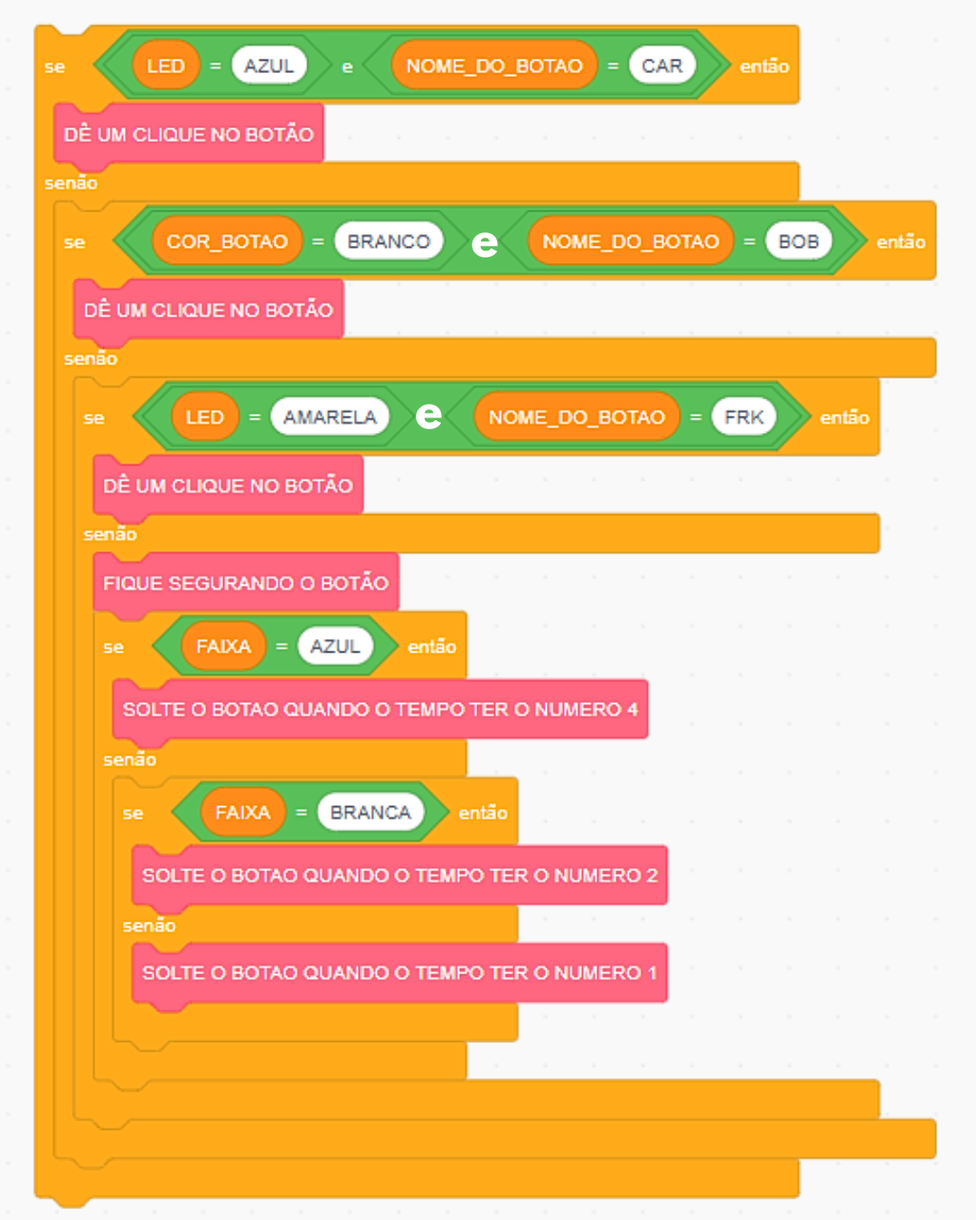
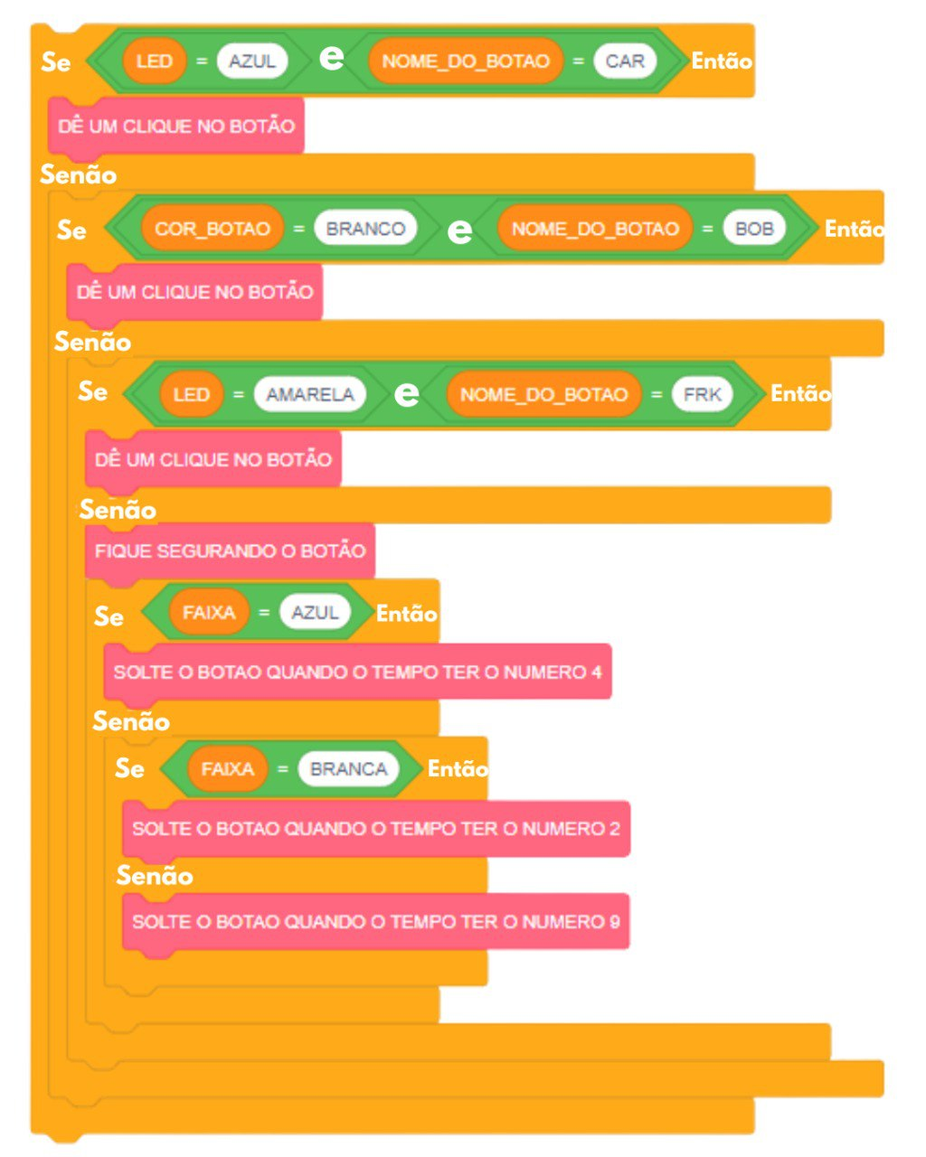
9⃣  default is nine

diff --git a/assets/index-DwWCXXcm.js b/assets/index-DwWCXXcm.js
@@ -96,7 +96,7 @@ Error generating stack: `+e.message+`
  *
  * This source code is licensed under the ISC license.
  * See the LICENSE file in the root directory of this source tree.
- */const nh=[["path",{d:"M18 6 6 18",key:"1bl5f8"}],["path",{d:"m6 6 12 12",key:"d8bk6v"}]],ff=_a("x",nh);function Kt({children:E,className:H=""}){return m.jsx("div",{className:`bg-card text-card-foreground rounded-lg border shadow-sm ${H}`,children:E})}function He({children:E,variant:H="default",size:j="default",className:v="",...z}){const Q="inline-flex items-center justify-center rounded-md font-medium transition-colors focus-visible:outline-none focus-visible:ring-2 focus-visible:ring-ring disabled:pointer-events-none disabled:opacity-50",K={default:"bg-primary text-primary-foreground hover:bg-primary/90",outline:"border border-input bg-background hover:bg-accent hover:text-accent-foreground",destructive:"bg-destructive text-destructive-foreground hover:bg-destructive/90"},ul={sm:"h-9 px-3 text-sm",default:"h-10 px-4 py-2",lg:"h-11 px-8 text-lg"},D=`${Q} ${K[H]} ${ul[j]} ${v}`;return m.jsx("button",{className:D,...z,children:E})}const ch="/keepTalkingAndNoKidExplodes/assets/cut-Dmt0vqtP.mp3";function ih({onDefused:E,onExplode:H,serialNumber:j,isDefused:v}){const[z]=al.useState(()=>{const R=["red","blue","yellow","black","white"],F=3+Math.floor(Math.random()*4);return Array.from({length:F},()=>R[Math.floor(Math.random()*R.length)])}),[Q]=al.useState(()=>{const R=new Audio(ch);return R.volume=.2,R}),K=R=>z.filter(F=>F===R).length,ul=R=>z.lastIndexOf(R),D=()=>{const R=parseInt(j.slice(-1));return!isNaN(R)&&R%2!==0},O=(()=>{const R=z.length,F=K("red"),bl=K("blue"),Tl=K("yellow"),El=K("black"),vl=K("white"),cl=z[R-1],nl=D();return R===3?F===0?1:cl==="white"?R-1:bl>1?ul("blue"):R-1:R===4?F>1&&nl?ul("red"):cl==="yellow"&&F===0||bl===1?0:Tl>1?R-1:1:R===5?cl==="black"&&nl?3:F===1&&Tl>1?0:El===0?1:0:R===6?Tl===0&&nl?2:Tl===1&&vl>1?3:F===0?R-1:3:-1})(),P=R=>{v||(Q.play(),R===O?E():H())};return m.jsxs(Kt,{className:"p-6 bg-slate-300",children:[m.jsx("h2",{className:"text-xl font-bold mb-4 text-center",children:"MÓDULO DE FIOS"}),m.jsxs("div",{className:"flex flex-col items-center space-y-2",children:[m.jsx("div",{className:"w-full h-8 bg-gray-700 rounded-t-lg"}),z.map((R,F)=>m.jsxs("div",{className:"flex items-center w-full",children:[m.jsx("div",{className:"w-8 h-8 bg-gray-700 rounded-l-lg"}),m.jsx("div",{className:`flex-grow h-2 transition-all ${v?"opacity-50 cursor-not-allowed":"hover:h-3 cursor-pointer"}`,style:{backgroundColor:R},onClick:()=>P(F)}),m.jsx("div",{className:"w-8 h-8 bg-gray-700 rounded-r-lg flex items-center justify-center",children:m.jsx("span",{className:"text-white text-xs",children:F+1})})]},F)),m.jsx("div",{className:"w-full h-8 bg-gray-700 rounded-b-lg"})]}),m.jsxs("div",{className:"mt-4 text-xs text-muted-foreground opacity-70",children:[m.jsxs("p",{children:["Serial: ",j]}),m.jsxs("p",{children:["Fios: ",z.join(", ")]})]})]})}const fh="/keepTalkingAndNoKidExplodes/assets/button_click-C3zWzbpL.mp3";function sh({onDefused:E,onExplode:H,isDefused:j,timeLeft:v}){const[z]=al.useState(()=>{const vl=["blue","red","yellow","white","green"],cl=["CAR","FRK","SIG","NSA","BOB","MSA","TRN"],nl=["blue","red","yellow","white","black","green"],Ul=["blue","red","yellow","white","black","green"],w=["Detonate","Abort","Hold","Press","Push","Button"];return{lightColor:vl[Math.floor(Math.random()*vl.length)],label:cl[Math.floor(Math.random()*cl.length)],stripColor:nl[Math.floor(Math.random()*nl.length)],buttonColor:Ul[Math.floor(Math.random()*Ul.length)],buttonText:w[Math.floor(Math.random()*w.length)]}}),[Q,K]=al.useState("idle"),[ul,D]=al.useState(""),[T]=al.useState(()=>{const vl=new Audio(fh);return vl.volume=.1,vl}),O=al.useRef(null);al.useEffect(()=>{const vl=Math.floor(v/60),cl=v%60;D(`${vl.toString().padStart(2,"0")}${cl.toString().padStart(2,"0")}`)},[v]),al.useEffect(()=>()=>{O.current&&clearTimeout(O.current)},[]);const P=()=>{const vl=z.lightColor==="blue"&&z.label==="CAR",cl=z.buttonColor==="white"&&z.label==="BOB",nl=z.lightColor==="yellow"&&z.label==="FRK";return vl||cl||nl},R=()=>{switch(z.stripColor){case"blue":return"4";case"white":return"2";default:return"9"}},F=()=>{j||(T.play(),K("pressed"),P()&&(O.current=setTimeout(()=>{console.log("[DEBUG] Botão mantido pressionado quando deveria ser solto → EXPLODE"),H()},1e3)))},bl=()=>{if(!(j||Q!=="pressed")){if(O.current&&clearTimeout(O.current),P())console.log("[DEBUG] Immediate Release → DEFUSED"),E();else{const vl=R(),cl=ul.includes(vl);console.log("[DEBUG] Botão solto. Timer:",ul,"→ precisa conter:",vl,"→",cl),cl?E():H()}K("idle")}},Tl=()=>["blue","red","green","black"].includes(z.buttonColor)?"white":"black",El=()=>j?"opacity-50 cursor-not-allowed":Q==="pressed"?"animate-pulse scale-105 border-orange-500":"hover:opacity-90 hover:scale-105 cursor-pointer active:scale-95 border-gray-300";return m.jsxs(Kt,{className:"p-6 bg-slate-300",children:[m.jsx("h2",{className:"text-xl font-bold mb-4 text-center",children:"MÓDULO DE BOTÃO"}),m.jsxs("div",{className:"flex flex-col items-center space-y-4",children:[m.jsxs("div",{className:"flex items-center space-x-2 mb-2",children:[m.jsx("div",{className:"w-8 h-8 rounded-full shadow-md",style:{backgroundColor:z.lightColor}}),m.jsxs("span",{className:"font-mono text-lg font-semibold bg-slate-300 px-2 py-1 rounded",children:["LED | NOME DO BOTÃO: ",z.label]})]}),m.jsx("button",{className:`w-32 h-32 rounded-full border-4 flex items-center justify-center font-bold text-lg shadow-lg transition-all ${El()}`,style:{backgroundColor:z.buttonColor,color:Tl()},onMouseDown:F,onMouseUp:bl,onTouchStart:F,onTouchEnd:bl,disabled:j,children:Q==="pressed"?"...":z.buttonText}),m.jsxs("div",{className:"w-full flex items-center justify-center mt-2",children:[m.jsx("div",{children:m.jsx("p",{className:"text-xs text-muted-foreground",children:"Faixa de luz: "})}),m.jsx("div",{className:"w-4/5 h-4 rounded-full shadow-inner",style:{backgroundColor:z.stripColor}})]})]})]})}function oh({timeLeft:E}){const H=Math.floor(E/60),j=E%60;return m.jsx("div",{className:"text-center mb-6",children:m.jsxs("div",{className:`text-6xl font-mono font-bold ${E<=60?"text-red-500 animate-pulse":"text-foreground"}`,children:[H.toString().padStart(2,"0"),":",j.toString().padStart(2,"0")]})})}function rh({onClose:E}){return m.jsx("div",{className:"fixed inset-0 bg-black bg-opacity-50 flex items-center justify-center p-4 z-50",children:m.jsxs(Kt,{className:"max-w-3xl w-full max-h-[90vh] overflow-y-auto",children:[m.jsxs("div",{className:"flex justify-between items-center p-4 border-b",children:[m.jsx("h2",{className:"text-2xl font-bold",children:"MANUAL DE DEFUSAGEM"}),m.jsx("button",{onClick:E,className:"p-1 hover:bg-muted rounded",children:m.jsx(ff,{size:24})})]}),m.jsxs("div",{className:"p-6 space-y-6",children:[m.jsxs("div",{children:[m.jsx("h3",{className:"text-xl font-bold mb-3 text-red-600",children:"Módulo de Fios"}),m.jsx("p",{className:"mb-3",children:"O módulo consiste em 3 a 6 fios coloridos. Apenas um fio deve ser cortado para desativar o módulo."}),m.jsx("pre",{className:"bg-muted p-4 rounded-md overflow-x-auto text-sm mb-4",children:`# Para 3 fios:
+ */const nh=[["path",{d:"M18 6 6 18",key:"1bl5f8"}],["path",{d:"m6 6 12 12",key:"d8bk6v"}]],ff=_a("x",nh);function Kt({children:E,className:H=""}){return m.jsx("div",{className:`bg-card text-card-foreground rounded-lg border shadow-sm ${H}`,children:E})}function He({children:E,variant:H="default",size:j="default",className:v="",...z}){const Q="inline-flex items-center justify-center rounded-md font-medium transition-colors focus-visible:outline-none focus-visible:ring-2 focus-visible:ring-ring disabled:pointer-events-none disabled:opacity-50",K={default:"bg-primary text-primary-foreground hover:bg-primary/90",outline:"border border-input bg-background hover:bg-accent hover:text-accent-foreground",destructive:"bg-destructive text-destructive-foreground hover:bg-destructive/90"},ul={sm:"h-9 px-3 text-sm",default:"h-10 px-4 py-2",lg:"h-11 px-8 text-lg"},D=`${Q} ${K[H]} ${ul[j]} ${v}`;return m.jsx("button",{className:D,...z,children:E})}const ch="./assets/cut-Dmt0vqtP.mp3";function ih({onDefused:E,onExplode:H,serialNumber:j,isDefused:v}){const[z]=al.useState(()=>{const R=["red","blue","yellow","black","white"],F=3+Math.floor(Math.random()*4);return Array.from({length:F},()=>R[Math.floor(Math.random()*R.length)])}),[Q]=al.useState(()=>{const R=new Audio(ch);return R.volume=.2,R}),K=R=>z.filter(F=>F===R).length,ul=R=>z.lastIndexOf(R),D=()=>{const R=parseInt(j.slice(-1));return!isNaN(R)&&R%2!==0},O=(()=>{const R=z.length,F=K("red"),bl=K("blue"),Tl=K("yellow"),El=K("black"),vl=K("white"),cl=z[R-1],nl=D();return R===3?F===0?1:cl==="white"?R-1:bl>1?ul("blue"):R-1:R===4?F>1&&nl?ul("red"):cl==="yellow"&&F===0||bl===1?0:Tl>1?R-1:1:R===5?cl==="black"&&nl?3:F===1&&Tl>1?0:El===0?1:0:R===6?Tl===0&&nl?2:Tl===1&&vl>1?3:F===0?R-1:3:-1})(),P=R=>{v||(Q.play(),R===O?E():H())};return m.jsxs(Kt,{className:"p-6 bg-slate-300",children:[m.jsx("h2",{className:"text-xl font-bold mb-4 text-center",children:"MÓDULO DE FIOS"}),m.jsxs("div",{className:"flex flex-col items-center space-y-2",children:[m.jsx("div",{className:"w-full h-8 bg-gray-700 rounded-t-lg"}),z.map((R,F)=>m.jsxs("div",{className:"flex items-center w-full",children:[m.jsx("div",{className:"w-8 h-8 bg-gray-700 rounded-l-lg"}),m.jsx("div",{className:`flex-grow h-2 transition-all ${v?"opacity-50 cursor-not-allowed":"hover:h-3 cursor-pointer"}`,style:{backgroundColor:R},onClick:()=>P(F)}),m.jsx("div",{className:"w-8 h-8 bg-gray-700 rounded-r-lg flex items-center justify-center",children:m.jsx("span",{className:"text-white text-xs",children:F+1})})]},F)),m.jsx("div",{className:"w-full h-8 bg-gray-700 rounded-b-lg"})]}),m.jsxs("div",{className:"mt-4 text-xs text-muted-foreground opacity-70",children:[m.jsxs("p",{children:["Serial: ",j]}),m.jsxs("p",{children:["Fios: ",z.join(", ")]})]})]})}const fh="./assets/button_click-C3zWzbpL.mp3";function sh({onDefused:E,onExplode:H,isDefused:j,timeLeft:v}){const[z]=al.useState(()=>{const vl=["blue","red","yellow","white","green"],cl=["CAR","FRK","SIG","NSA","BOB","MSA","TRN"],nl=["blue","red","yellow","white","black","green"],Ul=["blue","red","yellow","white","black","green"],w=["Detonate","Abort","Hold","Press","Push","Button"];return{lightColor:vl[Math.floor(Math.random()*vl.length)],label:cl[Math.floor(Math.random()*cl.length)],stripColor:nl[Math.floor(Math.random()*nl.length)],buttonColor:Ul[Math.floor(Math.random()*Ul.length)],buttonText:w[Math.floor(Math.random()*w.length)]}}),[Q,K]=al.useState("idle"),[ul,D]=al.useState(""),[T]=al.useState(()=>{const vl=new Audio(fh);return vl.volume=.1,vl}),O=al.useRef(null);al.useEffect(()=>{const vl=Math.floor(v/60),cl=v%60;D(`${vl.toString().padStart(2,"0")}${cl.toString().padStart(2,"0")}`)},[v]),al.useEffect(()=>()=>{O.current&&clearTimeout(O.current)},[]);const P=()=>{const vl=z.lightColor==="blue"&&z.label==="CAR",cl=z.buttonColor==="white"&&z.label==="BOB",nl=z.lightColor==="yellow"&&z.label==="FRK";return vl||cl||nl},R=()=>{switch(z.stripColor){case"blue":return"4";case"white":return"2";default:return"9"}},F=()=>{j||(T.play(),K("pressed"),P()&&(O.current=setTimeout(()=>{console.log("[DEBUG] Botão mantido pressionado quando deveria ser solto → EXPLODE"),H()},1e3)))},bl=()=>{if(!(j||Q!=="pressed")){if(O.current&&clearTimeout(O.current),P())console.log("[DEBUG] Immediate Release → DEFUSED"),E();else{const vl=R(),cl=ul.includes(vl);console.log("[DEBUG] Botão solto. Timer:",ul,"→ precisa conter:",vl,"→",cl),cl?E():H()}K("idle")}},Tl=()=>["blue","red","green","black"].includes(z.buttonColor)?"white":"black",El=()=>j?"opacity-50 cursor-not-allowed":Q==="pressed"?"animate-pulse scale-105 border-orange-500":"hover:opacity-90 hover:scale-105 cursor-pointer active:scale-95 border-gray-300";return m.jsxs(Kt,{className:"p-6 bg-slate-300",children:[m.jsx("h2",{className:"text-xl font-bold mb-4 text-center",children:"MÓDULO DE BOTÃO"}),m.jsxs("div",{className:"flex flex-col items-center space-y-4",children:[m.jsxs("div",{className:"flex items-center space-x-2 mb-2",children:[m.jsx("div",{className:"w-8 h-8 rounded-full shadow-md",style:{backgroundColor:z.lightColor}}),m.jsxs("span",{className:"font-mono text-lg font-semibold bg-slate-300 px-2 py-1 rounded",children:["LED | NOME DO BOTÃO: ",z.label]})]}),m.jsx("button",{className:`w-32 h-32 rounded-full border-4 flex items-center justify-center font-bold text-lg shadow-lg transition-all ${El()}`,style:{backgroundColor:z.buttonColor,color:Tl()},onMouseDown:F,onMouseUp:bl,onTouchStart:F,onTouchEnd:bl,disabled:j,children:Q==="pressed"?"...":z.buttonText}),m.jsxs("div",{className:"w-full flex items-center justify-center mt-2",children:[m.jsx("div",{children:m.jsx("p",{className:"text-xs text-muted-foreground",children:"Faixa de luz: "})}),m.jsx("div",{className:"w-4/5 h-4 rounded-full shadow-inner",style:{backgroundColor:z.stripColor}})]})]})]})}function oh({timeLeft:E}){const H=Math.floor(E/60),j=E%60;return m.jsx("div",{className:"text-center mb-6",children:m.jsxs("div",{className:`text-6xl font-mono font-bold ${E<=60?"text-red-500 animate-pulse":"text-foreground"}`,children:[H.toString().padStart(2,"0"),":",j.toString().padStart(2,"0")]})})}function rh({onClose:E}){return m.jsx("div",{className:"fixed inset-0 bg-black bg-opacity-50 flex items-center justify-center p-4 z-50",children:m.jsxs(Kt,{className:"max-w-3xl w-full max-h-[90vh] overflow-y-auto",children:[m.jsxs("div",{className:"flex justify-between items-center p-4 border-b",children:[m.jsx("h2",{className:"text-2xl font-bold",children:"MANUAL DE DEFUSAGEM"}),m.jsx("button",{onClick:E,className:"p-1 hover:bg-muted rounded",children:m.jsx(ff,{size:24})})]}),m.jsxs("div",{className:"p-6 space-y-6",children:[m.jsxs("div",{children:[m.jsx("h3",{className:"text-xl font-bold mb-3 text-red-600",children:"Módulo de Fios"}),m.jsx("p",{className:"mb-3",children:"O módulo consiste em 3 a 6 fios coloridos. Apenas um fio deve ser cortado para desativar o módulo."}),m.jsx("pre",{className:"bg-muted p-4 rounded-md overflow-x-auto text-sm mb-4",children:`# Para 3 fios:
 if quantidade_fios == 3:
   if vermelho == 0:
     corte = 2
@@ -216,4 +216,4 @@ senão:
     senão se faixa == "branca":
        solte_o_botao_quando_o_tempo_ter_o_numero = 2
     senão
-       solte_o_botao_quando_o_tempo_ter_o_numero = 1`})]}),m.jsxs("div",{className:"border-t pt-4",children:[m.jsx("h3",{className:"text-lg font-bold mb-2",children:"Geral"}),m.jsx("p",{children:"Todos os módulos devem ser desativados para vencer o jogo."}),m.jsx("p",{className:"font-semibold text-red-600",children:"Cuidado com o tempo! Se acabar, a bomba explode."})]})]})]})})}const mh="/keepTalkingAndNoKidExplodes/assets/1-BnmQihUt.png",hh="/keepTalkingAndNoKidExplodes/assets/2-CaJzBJUS.png",vh="/keepTalkingAndNoKidExplodes/assets/3-Cb6-N2Eo.png",yh="/keepTalkingAndNoKidExplodes/assets/4-DnYHFqjS.png",gh="/keepTalkingAndNoKidExplodes/assets/botao-CZHot6Cx.png";function bh({onClose:E}){return m.jsx("div",{className:"fixed inset-0 bg-black bg-opacity-50 flex items-center justify-center p-4 z-50",children:m.jsxs(Kt,{className:"max-w-3xl w-full max-h-[90vh] overflow-y-auto",children:[m.jsxs("div",{className:"flex justsey-between items-center p-4 border-b",children:[m.jsx("h2",{className:"text-2xl font-bold",children:"MANUAL DE DEFUSAGEM"}),m.jsx("button",{onClick:E,className:"p-1 hover:bg-muted rounded",children:m.jsx(ff,{size:24})})]}),m.jsxs("div",{className:"p-6 space-y-6",children:[m.jsxs("div",{children:[m.jsx("h3",{className:"text-xl font-bold mb-3 text-red-600",children:"Módulo de Fios"}),m.jsx("p",{className:"mb-3",children:"O módulo consiste em 3 a 6 fios coloridos. Apenas um fio deve ser cortado para desativar o módulo."})]}),m.jsx("h1",{children:"QUANTIDADE_DE_FIOS = 3"}),m.jsx("img",{src:mh}),m.jsx("h1",{children:"QUANTIDADE_DE_FIOS = 4"}),m.jsx("img",{src:hh}),m.jsx("h1",{children:"QUANTIDADE_DE_FIOS = 5"}),m.jsx("img",{src:vh}),m.jsx("h1",{children:"QUANTIDADE_DE_FIOS = 6"}),m.jsx("img",{src:yh}),m.jsxs("div",{className:"border-t pt-4",children:[m.jsx("h3",{className:"text-xl font-bold mb-3 text-blue-600",children:"Módulo de Botão"}),m.jsx("p",{className:"mb-3",children:"O módulo possui um botão grande, uma luz colorida com uma sigla, além de uma faixa de luz. Primeiramente, verseique se o botão deve ser apenas clicado e solto imediatamento, ou se ele deve ficar pressionado e solto no momento adequado: aquele quando o timer contiver o número desejado."}),m.jsx("img",{src:gh,className:"h-[800px] w-auto object-cover"})]}),m.jsxs("div",{className:"border-t pt-4",children:[m.jsx("h3",{className:"text-lg font-bold mb-2",children:"Geral"}),m.jsx("p",{children:"Todos os módulos devem ser desativados para vencer o jogo."}),m.jsx("p",{className:"font-semibold text-red-600",children:"Cuidado com o tempo! Se acabar, a bomba explode."})]})]})]})})}const Sh="/keepTalkingAndNoKidExplodes/assets/explosion-BXcrQ-gW.mp3",xh="/keepTalkingAndNoKidExplodes/assets/clock_tick-D6hl4KmL.mp3",_h="/keepTalkingAndNoKidExplodes/assets/victory-DfSwh-Ju.mp3",Th=60,Eh=1e3,Ah=500;function ph(){const[E,H]=al.useState("menu"),[j,v]=al.useState(300),[z,Q]=al.useState(300),[K,ul]=al.useState([]),[D,T]=al.useState(3),[O,P]=al.useState(!1),[R,F]=al.useState(!1),[bl,Tl]=al.useState(!1),[El,vl]=al.useState(""),[cl]=al.useState(()=>{const B=new Audio(Sh);return B.volume=.35,B}),[nl]=al.useState(()=>{const B=new Audio(xh);return B.volume=.5,B}),[Ul]=al.useState(()=>{const B=new Audio(_h);return B.volume=.4,B}),w=al.useRef(null),Vl=()=>{try{nl.currentTime=0,nl.play()}catch{}},Ll=B=>{Al(),w.current=window.setInterval(Vl,B)},Al=()=>{w.current!==null&&(clearInterval(w.current),w.current=null);try{nl.pause(),nl.currentTime=0}catch{}},it=()=>{const B=Math.random().toString(36).substring(2,7).toUpperCase(),b=Math.floor(Math.random()*10).toString();vl(B+b)};al.useEffect(()=>{if(E==="playing"&&j>0){const B=setInterval(()=>{v(b=>{if(b<=1){Al();try{cl.currentTime=0,cl.play()}catch{}return H("lost"),0}return b-1})},1e3);return()=>clearInterval(B)}},[E,j,cl]),al.useEffect(()=>{if(E!=="playing"||j<=0){Al();return}const B=j<=Th?Ah:Eh;return Ll(B),()=>Al()},[E,j]),al.useEffect(()=>{if(E==="playing"&&K.length>0&&K.every(B=>B.defused)){Al();try{Ul.currentTime=0,Ul.play()}catch{}H("won")}},[K,E,Ul]);const Ot=()=>{Al();try{cl.currentTime=0,cl.play()}catch{}H("exploded")},gt=B=>{const b=["FIOS","BOTÃO"];return Array.from({length:B},(p,C)=>({id:C+1,type:b[Math.floor(Math.random()*b.length)],defused:!1}))},jl=()=>{if(z<=0||D<=0){alert("Defina um tempo e quantidade de módulos válidos!");return}it(),H("playing"),v(z),ul(gt(D))},bt=()=>{Al(),H("menu"),v(z),ul([])},Tt=B=>{ul(b=>b.map(p=>p.id===B?{...p,defused:!0}:p))};return E==="menu"?m.jsxs("div",{className:"min-h-screen bg-background flex items-center justify-center p-4",children:[m.jsxs(Kt,{className:"max-w-md w-full p-8 text-center bg-card",children:[m.jsxs("div",{className:"mb-6",children:[m.jsx(uh,{className:"w-16 h-16 text-primary mx-auto mb-4"}),m.jsx("h1",{className:"text-3xl font-bold text-foreground mb-2",children:"DEFUSADOR DE BOMBA"}),m.jsx("p",{className:"text-muted-foreground",children:"Baseado em Keep Talking and Nobody Explodes"})]}),m.jsxs("div",{className:"mb-6 space-y-4 text-left",children:[m.jsxs("label",{className:"block text-sm font-medium text-muted-foreground",children:[m.jsx(Pm,{className:"w-4 h-4 inline mr-1"})," Tempo da Missão (segundos)"]}),m.jsx("input",{type:"number",min:10,className:"w-full p-2 border rounded bg-background",value:z,onChange:B=>Q(Number(B.target.value))}),m.jsxs("label",{className:"block text-sm font-medium text-muted-foreground",children:[m.jsx(th,{className:"w-4 h-4 inline mr-1"})," Quantidade de Módulos"]}),m.jsx("input",{type:"number",min:1,className:"w-full p-2 border rounded bg-background",value:D,onChange:B=>T(Number(B.target.value))})]}),m.jsxs("div",{className:"space-y-4",children:[m.jsx(He,{onClick:jl,className:"w-full bg-primary hover:bg-primary/90 text-primary-foreground",size:"lg",children:"INICIAR MISSÃO"}),m.jsxs(He,{onClick:()=>F(!0),variant:"outline",className:"w-full",size:"lg",children:[m.jsx(uf,{className:"w-4 h-4 mr-2"})," MANUAL EM PSEUDOCÓDIGO"]}),m.jsxs(He,{onClick:()=>P(!0),variant:"outline",className:"w-full",size:"lg",children:[m.jsx(uf,{className:"w-4 h-4 mr-2"})," MANUAL EM PYTHON"]}),m.jsxs(He,{onClick:()=>Tl(!0),variant:"outline",className:"w-full",size:"lg",children:[m.jsx(uf,{className:"w-4 h-4 mr-2"})," MANUAL EM SCRATCH"]})]})]}),R&&m.jsx(dh,{onClose:()=>F(!1)}),O&&m.jsx(rh,{onClose:()=>P(!1)}),bl&&m.jsx(bh,{onClose:()=>Tl(!1)})]}):E==="won"?m.jsx("div",{className:"min-h-screen bg-background flex items-center justify-center p-4",children:m.jsxs(Kt,{className:"max-w-md w-full p-8 text-center border-2 border-green-500 bg-card",children:[m.jsxs("div",{className:"mb-6",children:[m.jsx("div",{className:"w-16 h-16 bg-green-500 rounded-full flex items-center justify-center mx-auto mb-4",children:m.jsx("span",{className:"text-2xl",children:"✓"})}),m.jsx("h1",{className:"text-3xl font-bold text-green-600 mb-2",children:"BOMBA DEFUSADA!"}),m.jsx("p",{className:"text-muted-foreground",children:"Parabéns! Você salvou o dia!"})]}),m.jsxs(He,{onClick:bt,className:"w-full bg-primary hover:bg-primary/90 text-primary-foreground",size:"lg",children:[m.jsx(nf,{className:"w-4 h-4 mr-2"})," NOVA MISSÃO"]})]})}):E==="exploded"?m.jsx("div",{className:"min-h-screen bg-red-950 flex items-center justify-center p-4 animate-pulse",children:m.jsxs(Kt,{className:"max-w-md w-full p-8 text-center bg-red-900 border-2 border-red-500",children:[m.jsxs("div",{className:"mb-6",children:[m.jsx("div",{className:"w-16 h-16 bg-red-500 rounded-full flex items-center justify-center mx-auto mb-4 animate-bounce",children:m.jsx("span",{className:"text-2xl text-white",children:"💥"})}),m.jsx("h1",{className:"text-3xl font-bold text-red-400 mb-2",children:"EXPLOSÃO!"}),m.jsx("p",{className:"text-red-200",children:"Você cometeu um erro em um dos módulos!"})]}),m.jsxs(He,{onClick:bt,className:"w-full bg-red-600 hover:bg-red-700 text-white",size:"lg",children:[m.jsx(nf,{className:"w-4 h-4 mr-2"})," TENTAR NOVAMENTE"]})]})}):E==="lost"?m.jsx("div",{className:"min-h-screen bg-background flex items-center justify-center p-4",children:m.jsxs(Kt,{className:"max-w-md w-full p-8 text-center border-2 border-primary bg-card",children:[m.jsxs("div",{className:"mb-6",children:[m.jsx("div",{className:"w-16 h-16 bg-primary rounded-full flex items-center justify-center mx-auto mb-4 animate-pulse-danger",children:m.jsx("span",{className:"text-2xl text-primary-foreground",children:"⏰"})}),m.jsx("h1",{className:"text-3xl font-bold text-primary mb-2",children:"TEMPO ESGOTADO!"}),m.jsx("p",{className:"text-muted-foreground",children:"O tempo acabou. Tente novamente!"})]}),m.jsxs(He,{onClick:bt,className:"w-full bg-primary hover:bg-primary/90 text-primary-foreground",size:"lg",children:[m.jsx(nf,{className:"w-4 h-4 mr-2"})," TENTAR NOVAMENTE"]})]})}):m.jsx("div",{className:"min-h-screen bg-background p-4",children:m.jsxs("div",{className:"max-w-4xl mx-auto",children:[m.jsxs("div",{className:"mb-6 text-center",children:[m.jsx("h1",{className:"text-2xl font-bold text-foreground mb-2",children:"DISPOSITIVO EXPLOSIVO ATIVO"}),m.jsx("div",{className:"flex items-center justify-center gap-4 text-sm text-muted-foreground",children:m.jsxs("span",{className:"text-xl text-foreground",children:["NÚMERO DA BOMBA:"," ",m.jsx("span",{className:"text-foreground text-red-400",children:El})]})})]}),m.jsx("div",{className:"sticky top-0 z-50 bg-background py-2 shadow-md",children:m.jsx(oh,{timeLeft:j})}),m.jsx("div",{className:"grid md:grid-cols-2 gap-6 mt-6",children:K.map(B=>m.jsxs("div",{className:"bg-slate-300 rounded-lg p-4 shadow-lg",children:[B.type==="FIOS"&&m.jsx(ih,{onDefused:()=>Tt(B.id),onExplode:Ot,serialNumber:El,isDefused:B.defused}),B.type==="BOTÃO"&&m.jsx(sh,{onDefused:()=>Tt(B.id),onExplode:Ot,isDefused:B.defused,timeLeft:j})]},B.id))}),m.jsx("div",{className:"mt-6 text-center",children:m.jsx("div",{className:"flex flex-wrap justify-center gap-2 text-sm",children:K.map(B=>m.jsxs("span",{className:`px-3 py-1 rounded ${B.defused?"bg-green-500 text-white":"bg-slate-300 text-muted-foreground"}`,children:[B.type.toUpperCase(),": ",B.defused?"DEFUSADO":"ATIVO"]},B.id))})})]})})}Km.createRoot(document.getElementById("root")).render(m.jsx(al.StrictMode,{children:m.jsx(ph,{})}));
+       solte_o_botao_quando_o_tempo_ter_o_numero = 1`})]}),m.jsxs("div",{className:"border-t pt-4",children:[m.jsx("h3",{className:"text-lg font-bold mb-2",children:"Geral"}),m.jsx("p",{children:"Todos os módulos devem ser desativados para vencer o jogo."}),m.jsx("p",{className:"font-semibold text-red-600",children:"Cuidado com o tempo! Se acabar, a bomba explode."})]})]})]})})}const mh="./assets/1-BnmQihUt.png",hh="./assets/2-CaJzBJUS.png",vh="./assets/3-Cb6-N2Eo.png",yh="./assets/4-DnYHFqjS.png",gh="./assets/botao-CZHot6Cx.png";function bh({onClose:E}){return m.jsx("div",{className:"fixed inset-0 bg-black bg-opacity-50 flex items-center justify-center p-4 z-50",children:m.jsxs(Kt,{className:"max-w-3xl w-full max-h-[90vh] overflow-y-auto",children:[m.jsxs("div",{className:"flex justsey-between items-center p-4 border-b",children:[m.jsx("h2",{className:"text-2xl font-bold",children:"MANUAL DE DEFUSAGEM"}),m.jsx("button",{onClick:E,className:"p-1 hover:bg-muted rounded",children:m.jsx(ff,{size:24})})]}),m.jsxs("div",{className:"p-6 space-y-6",children:[m.jsxs("div",{children:[m.jsx("h3",{className:"text-xl font-bold mb-3 text-red-600",children:"Módulo de Fios"}),m.jsx("p",{className:"mb-3",children:"O módulo consiste em 3 a 6 fios coloridos. Apenas um fio deve ser cortado para desativar o módulo."})]}),m.jsx("h1",{children:"QUANTIDADE_DE_FIOS = 3"}),m.jsx("img",{src:mh}),m.jsx("h1",{children:"QUANTIDADE_DE_FIOS = 4"}),m.jsx("img",{src:hh}),m.jsx("h1",{children:"QUANTIDADE_DE_FIOS = 5"}),m.jsx("img",{src:vh}),m.jsx("h1",{children:"QUANTIDADE_DE_FIOS = 6"}),m.jsx("img",{src:yh}),m.jsxs("div",{className:"border-t pt-4",children:[m.jsx("h3",{className:"text-xl font-bold mb-3 text-blue-600",children:"Módulo de Botão"}),m.jsx("p",{className:"mb-3",children:"O módulo possui um botão grande, uma luz colorida com uma sigla, além de uma faixa de luz. Primeiramente, verseique se o botão deve ser apenas clicado e solto imediatamento, ou se ele deve ficar pressionado e solto no momento adequado: aquele quando o timer contiver o número desejado."}),m.jsx("img",{src:gh,className:"h-[800px] w-auto object-cover"})]}),m.jsxs("div",{className:"border-t pt-4",children:[m.jsx("h3",{className:"text-lg font-bold mb-2",children:"Geral"}),m.jsx("p",{children:"Todos os módulos devem ser desativados para vencer o jogo."}),m.jsx("p",{className:"font-semibold text-red-600",children:"Cuidado com o tempo! Se acabar, a bomba explode."})]})]})]})})}const Sh="./assets/explosion-BXcrQ-gW.mp3",xh="./assets/clock_tick-D6hl4KmL.mp3",_h="./assets/victory-DfSwh-Ju.mp3",Th=60,Eh=1e3,Ah=500;function ph(){const[E,H]=al.useState("menu"),[j,v]=al.useState(300),[z,Q]=al.useState(300),[K,ul]=al.useState([]),[D,T]=al.useState(3),[O,P]=al.useState(!1),[R,F]=al.useState(!1),[bl,Tl]=al.useState(!1),[El,vl]=al.useState(""),[cl]=al.useState(()=>{const B=new Audio(Sh);return B.volume=.35,B}),[nl]=al.useState(()=>{const B=new Audio(xh);return B.volume=.5,B}),[Ul]=al.useState(()=>{const B=new Audio(_h);return B.volume=.4,B}),w=al.useRef(null),Vl=()=>{try{nl.currentTime=0,nl.play()}catch{}},Ll=B=>{Al(),w.current=window.setInterval(Vl,B)},Al=()=>{w.current!==null&&(clearInterval(w.current),w.current=null);try{nl.pause(),nl.currentTime=0}catch{}},it=()=>{const B=Math.random().toString(36).substring(2,7).toUpperCase(),b=Math.floor(Math.random()*10).toString();vl(B+b)};al.useEffect(()=>{if(E==="playing"&&j>0){const B=setInterval(()=>{v(b=>{if(b<=1){Al();try{cl.currentTime=0,cl.play()}catch{}return H("lost"),0}return b-1})},1e3);return()=>clearInterval(B)}},[E,j,cl]),al.useEffect(()=>{if(E!=="playing"||j<=0){Al();return}const B=j<=Th?Ah:Eh;return Ll(B),()=>Al()},[E,j]),al.useEffect(()=>{if(E==="playing"&&K.length>0&&K.every(B=>B.defused)){Al();try{Ul.currentTime=0,Ul.play()}catch{}H("won")}},[K,E,Ul]);const Ot=()=>{Al();try{cl.currentTime=0,cl.play()}catch{}H("exploded")},gt=B=>{const b=["FIOS","BOTÃO"];return Array.from({length:B},(p,C)=>({id:C+1,type:b[Math.floor(Math.random()*b.length)],defused:!1}))},jl=()=>{if(z<=0||D<=0){alert("Defina um tempo e quantidade de módulos válidos!");return}it(),H("playing"),v(z),ul(gt(D))},bt=()=>{Al(),H("menu"),v(z),ul([])},Tt=B=>{ul(b=>b.map(p=>p.id===B?{...p,defused:!0}:p))};return E==="menu"?m.jsxs("div",{className:"min-h-screen bg-background flex items-center justify-center p-4",children:[m.jsxs(Kt,{className:"max-w-md w-full p-8 text-center bg-card",children:[m.jsxs("div",{className:"mb-6",children:[m.jsx(uh,{className:"w-16 h-16 text-primary mx-auto mb-4"}),m.jsx("h1",{className:"text-3xl font-bold text-foreground mb-2",children:"DEFUSADOR DE BOMBA"}),m.jsx("p",{className:"text-muted-foreground",children:"Baseado em Keep Talking and Nobody Explodes"})]}),m.jsxs("div",{className:"mb-6 space-y-4 text-left",children:[m.jsxs("label",{className:"block text-sm font-medium text-muted-foreground",children:[m.jsx(Pm,{className:"w-4 h-4 inline mr-1"})," Tempo da Missão (segundos)"]}),m.jsx("input",{type:"number",min:10,className:"w-full p-2 border rounded bg-background",value:z,onChange:B=>Q(Number(B.target.value))}),m.jsxs("label",{className:"block text-sm font-medium text-muted-foreground",children:[m.jsx(th,{className:"w-4 h-4 inline mr-1"})," Quantidade de Módulos"]}),m.jsx("input",{type:"number",min:1,className:"w-full p-2 border rounded bg-background",value:D,onChange:B=>T(Number(B.target.value))})]}),m.jsxs("div",{className:"space-y-4",children:[m.jsx(He,{onClick:jl,className:"w-full bg-primary hover:bg-primary/90 text-primary-foreground",size:"lg",children:"INICIAR MISSÃO"}),m.jsxs(He,{onClick:()=>F(!0),variant:"outline",className:"w-full",size:"lg",children:[m.jsx(uf,{className:"w-4 h-4 mr-2"})," MANUAL EM PSEUDOCÓDIGO"]}),m.jsxs(He,{onClick:()=>P(!0),variant:"outline",className:"w-full",size:"lg",children:[m.jsx(uf,{className:"w-4 h-4 mr-2"})," MANUAL EM PYTHON"]}),m.jsxs(He,{onClick:()=>Tl(!0),variant:"outline",className:"w-full",size:"lg",children:[m.jsx(uf,{className:"w-4 h-4 mr-2"})," MANUAL EM SCRATCH"]})]})]}),R&&m.jsx(dh,{onClose:()=>F(!1)}),O&&m.jsx(rh,{onClose:()=>P(!1)}),bl&&m.jsx(bh,{onClose:()=>Tl(!1)})]}):E==="won"?m.jsx("div",{className:"min-h-screen bg-background flex items-center justify-center p-4",children:m.jsxs(Kt,{className:"max-w-md w-full p-8 text-center border-2 border-green-500 bg-card",children:[m.jsxs("div",{className:"mb-6",children:[m.jsx("div",{className:"w-16 h-16 bg-green-500 rounded-full flex items-center justify-center mx-auto mb-4",children:m.jsx("span",{className:"text-2xl",children:"✓"})}),m.jsx("h1",{className:"text-3xl font-bold text-green-600 mb-2",children:"BOMBA DEFUSADA!"}),m.jsx("p",{className:"text-muted-foreground",children:"Parabéns! Você salvou o dia!"})]}),m.jsxs(He,{onClick:bt,className:"w-full bg-primary hover:bg-primary/90 text-primary-foreground",size:"lg",children:[m.jsx(nf,{className:"w-4 h-4 mr-2"})," NOVA MISSÃO"]})]})}):E==="exploded"?m.jsx("div",{className:"min-h-screen bg-red-950 flex items-center justify-center p-4 animate-pulse",children:m.jsxs(Kt,{className:"max-w-md w-full p-8 text-center bg-red-900 border-2 border-red-500",children:[m.jsxs("div",{className:"mb-6",children:[m.jsx("div",{className:"w-16 h-16 bg-red-500 rounded-full flex items-center justify-center mx-auto mb-4 animate-bounce",children:m.jsx("span",{className:"text-2xl text-white",children:"💥"})}),m.jsx("h1",{className:"text-3xl font-bold text-red-400 mb-2",children:"EXPLOSÃO!"}),m.jsx("p",{className:"text-red-200",children:"Você cometeu um erro em um dos módulos!"})]}),m.jsxs(He,{onClick:bt,className:"w-full bg-red-600 hover:bg-red-700 text-white",size:"lg",children:[m.jsx(nf,{className:"w-4 h-4 mr-2"})," TENTAR NOVAMENTE"]})]})}):E==="lost"?m.jsx("div",{className:"min-h-screen bg-background flex items-center justify-center p-4",children:m.jsxs(Kt,{className:"max-w-md w-full p-8 text-center border-2 border-primary bg-card",children:[m.jsxs("div",{className:"mb-6",children:[m.jsx("div",{className:"w-16 h-16 bg-primary rounded-full flex items-center justify-center mx-auto mb-4 animate-pulse-danger",children:m.jsx("span",{className:"text-2xl text-primary-foreground",children:"⏰"})}),m.jsx("h1",{className:"text-3xl font-bold text-primary mb-2",children:"TEMPO ESGOTADO!"}),m.jsx("p",{className:"text-muted-foreground",children:"O tempo acabou. Tente novamente!"})]}),m.jsxs(He,{onClick:bt,className:"w-full bg-primary hover:bg-primary/90 text-primary-foreground",size:"lg",children:[m.jsx(nf,{className:"w-4 h-4 mr-2"})," TENTAR NOVAMENTE"]})]})}):m.jsx("div",{className:"min-h-screen bg-background p-4",children:m.jsxs("div",{className:"max-w-4xl mx-auto",children:[m.jsxs("div",{className:"mb-6 text-center",children:[m.jsx("h1",{className:"text-2xl font-bold text-foreground mb-2",children:"DISPOSITIVO EXPLOSIVO ATIVO"}),m.jsx("div",{className:"flex items-center justify-center gap-4 text-sm text-muted-foreground",children:m.jsxs("span",{className:"text-xl text-foreground",children:["NÚMERO DA BOMBA:"," ",m.jsx("span",{className:"text-foreground text-red-400",children:El})]})})]}),m.jsx("div",{className:"sticky top-0 z-50 bg-background py-2 shadow-md",children:m.jsx(oh,{timeLeft:j})}),m.jsx("div",{className:"grid md:grid-cols-2 gap-6 mt-6",children:K.map(B=>m.jsxs("div",{className:"bg-slate-300 rounded-lg p-4 shadow-lg",children:[B.type==="FIOS"&&m.jsx(ih,{onDefused:()=>Tt(B.id),onExplode:Ot,serialNumber:El,isDefused:B.defused}),B.type==="BOTÃO"&&m.jsx(sh,{onDefused:()=>Tt(B.id),onExplode:Ot,isDefused:B.defused,timeLeft:j})]},B.id))}),m.jsx("div",{className:"mt-6 text-center",children:m.jsx("div",{className:"flex flex-wrap justify-center gap-2 text-sm",children:K.map(B=>m.jsxs("span",{className:`px-3 py-1 rounded ${B.defused?"bg-green-500 text-white":"bg-slate-300 text-muted-foreground"}`,children:[B.type.toUpperCase(),": ",B.defused?"DEFUSADO":"ATIVO"]},B.id))})})]})})}Km.createRoot(document.getElementById("root")).render(m.jsx(al.StrictMode,{children:m.jsx(ph,{})}));

diff --git a/index.html b/index.html
@@ -5,8 +5,8 @@
     <link rel="icon" type="image/svg+xml" href="/keepTalkingAndNoKidExplodes/vite.svg" />
     <meta name="viewport" content="width=device-width, initial-scale=1.0" />
     <title>Vite + React + TS</title>
-    <script type="module" crossorigin src="/keepTalkingAndNoKidExplodes/assets/index-DwWCXXcm.js"></script>
-    <link rel="stylesheet" crossorigin href="/keepTalkingAndNoKidExplodes/assets/index-Bo3JjTnF.css">
+    <script type="module" crossorigin src="./assets/index-DwWCXXcm.js"></script>
+    <link rel="stylesheet" crossorigin href="./assets/index-Bo3JjTnF.css">
   </head>
   <body>
     <div id="root"></div>
